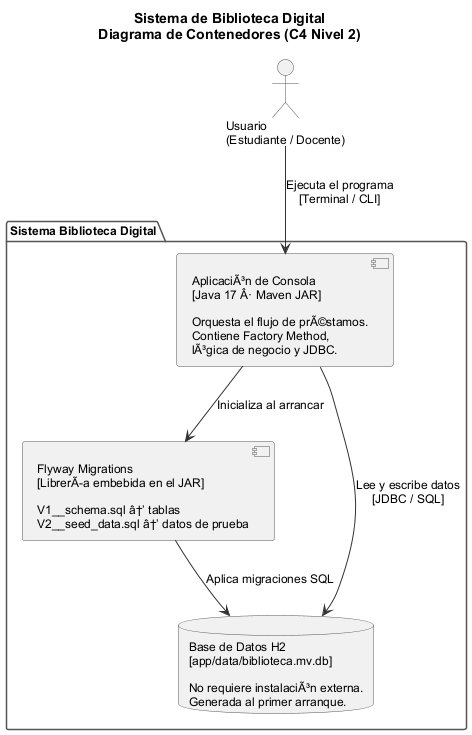
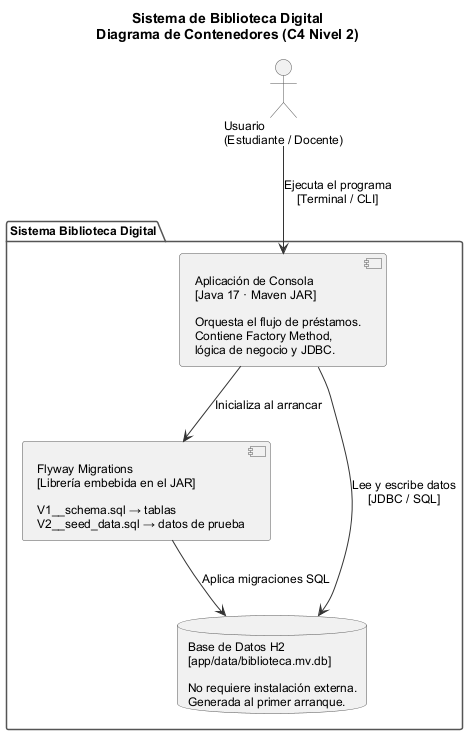
fix: encoding UTF-8 en todos los puntos de entrada/salida
- pom.xml: maven-compiler-plugin explicito con encoding=UTF-8;
  surefire argLine -Dfile.encoding=UTF-8 para tests en Windows
- DatabaseManager: Flyway.configure().encoding(StandardCharsets.UTF_8)
  evita leer SQL con Cp1252 en Windows
- Diagramas PlantUML re-renderizados con -Dfile.encoding=UTF-8:
  tildes y enies correctas en los tres PNGs (context, containers, components)
- README: comando correcto java -Dfile.encoding=UTF-8 -jar ... y
  instrucciones para re-renderizar diagramas con encoding correcto

diff --git a/app/src/main/java/ec/espoch/biblioteca/db/DatabaseManager.java b/app/src/main/java/ec/espoch/biblioteca/db/DatabaseManager.java
@@ -2,6 +2,7 @@ package ec.espoch.biblioteca.db;
 
 import org.flywaydb.core.Flyway;
 
+import java.nio.charset.StandardCharsets;
 import java.sql.Connection;
 import java.sql.DriverManager;
 import java.sql.SQLException;
@@ -20,6 +21,7 @@ public class DatabaseManager {
             Flyway.configure()
                     .dataSource(url, USER, PASS)
                     .locations("classpath:db/migration")
+                    .encoding(StandardCharsets.UTF_8)
                     .load()
                     .migrate();
             connection = DriverManager.getConnection(url, USER, PASS);

diff --git a/README.md b/README.md
@@ -36,11 +36,28 @@ mvnw.cmd clean package        # Windows
 ./mvnw clean package          # Linux / Mac
 
 # 3a. Modo consola (demo del patrón)
-java -jar target/biblioteca.jar
+java -Dfile.encoding=UTF-8 -jar target/biblioteca.jar
 
 # 3b. Modo web (interfaz gráfica)
-java -jar target/biblioteca.jar --web
+java -Dfile.encoding=UTF-8 -jar target/biblioteca.jar --web
 # → Abrir http://localhost:7000
+```
+
+> **Windows:** la flag `-Dfile.encoding=UTF-8` es necesaria para que tildes y ñ
+> se muestren correctamente en la consola. Sin ella el JAR funciona igual,
+> pero la salida de texto puede verse con caracteres extraños (`?` o `Ã©`).
+
+## Re-renderizar diagramas PlantUML
+
+```bash
+# Descargar plantuml.jar (una sola vez) desde https://plantuml.com/download
+# Colocar en: vault/diagrams/plantuml.jar  (ignorado por git)
+
+java -Dfile.encoding=UTF-8 -jar vault/diagrams/plantuml.jar vault/diagrams/c4-context.puml
+java -Dfile.encoding=UTF-8 -jar vault/diagrams/plantuml.jar vault/diagrams/c4-containers.puml
+java -Dfile.encoding=UTF-8 -jar vault/diagrams/plantuml.jar vault/diagrams/c4-components-prestamos.puml
+
+# Copiar los PNG generados a docs/diagrams/
 ```
 
 ---